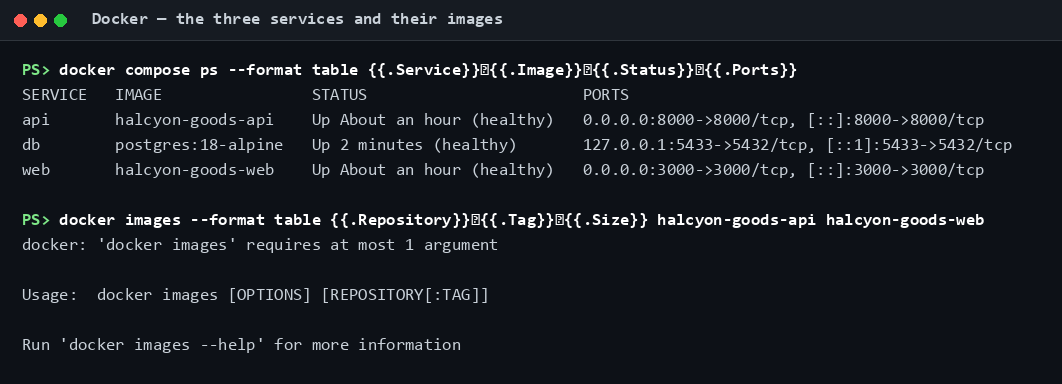
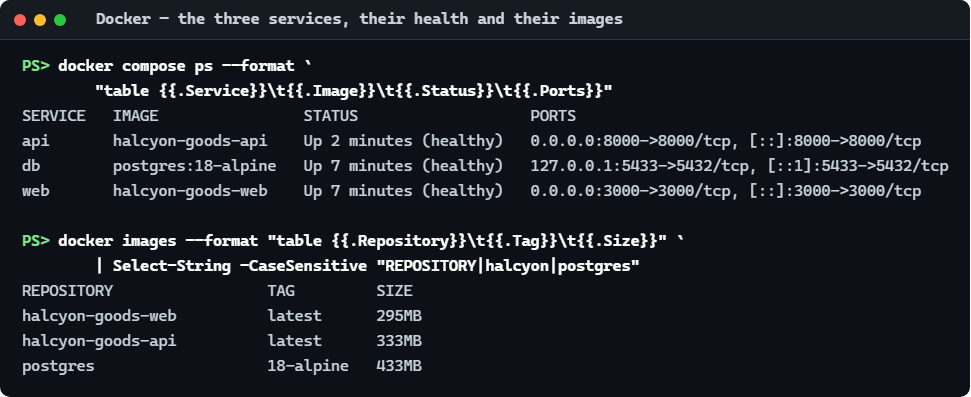
Retake the terminal captures, and say what the migration does not need to fix
Closes the two things the previous commit left open.

Captures 10 to 15 are rerun against a stack booted from an empty volume, so
they stop predating the column. Three are now better than what they replace:

- 11 runs two PATCHes instead of one. The first carries only the price and
  moves updated_at while leaving stock_counted_at exactly where it was; the
  second carries the quantity and moves both to the same instant. The rule the
  service enforces is now visible in real Postgres output rather than only
  asserted in a test.
- 14 shows both migrations applying in order on an empty volume, which is the
  argument for keeping a chain rather than editing the first revision.
- 13 replaces a block that shipped a command error - docker images was called
  with two arguments and answered "requires at most 1 argument" - with the
  image sizes, which is what its description claimed it showed.

Where output is filtered, the filter is now visible in the command above it, so
what is on screen is reproducible from what is on screen.

On the legacy data: the earlier claim was too pessimistic. in_stock = false has
always meant "withdrawn from service" - the guide said so before the fourth
state existed - so no stored value changed meaning and nothing needs migrating.
What was wrong was seed.py, which set the flag on empty shelves and so
contradicted the project's own documentation; that is fixed on this branch. The
[…]

diff --git a/docs/guide/04-the-database.md b/docs/guide/04-the-database.md
@@ -58,6 +58,32 @@ settled decision, not an open problem.
 The threshold of 10 is a warehouse rule, not a database field, so it is defined
 once in the dashboard and derived from `stock` everywhere it is needed.
 
+> **What this did not change: the meaning of the column.** `in_stock = false`
+> has always meant "withdrawn from service" — that is what this page said before
+> the fourth state existed. Nothing needs migrating, because no stored value
+> changed meaning; what changed is that the screen stopped throwing the
+> distinction away.
+>
+> The example catalogue was the thing that had it wrong. `seed.py` used to set
+> `in_stock = false` on every out-of-stock item, empty shelves included, which
+> contradicted this page and made ten rows unreadable under either rule. That is
+> fixed: an empty shelf is now `stock = 0, in_stock = true`.
+>
+> If a register of your own was filled in following that pattern, the rows to
+> look at are the ones where the two readings coincide. Nothing can decide them
+> for you — the information was never recorded — so this lists them rather than
+> guessing:
+>
+> ```sql
+> select name, category, updated_at from product
+> where not in_stock and stock = 0 order by name;
+> ```
+>
+> Each one is either an empty shelf on a line still in service (`in_stock` back
+> to true) or a withdrawn line that also happens to be empty (leave it). Rows
+> with `not in_stock and stock > 0` need nothing: they were unambiguous all
+> along.
+
 **`stock_counted_at` is how old the quantity is**, and it exists because
 `updated_at` cannot answer that. `updated_at` moves whenever the row is written
 — a corrected price, a new tag — so it would report a quantity nobody has
